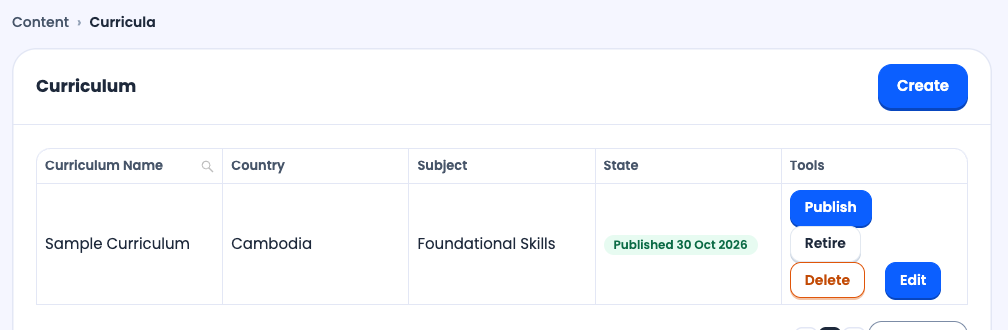
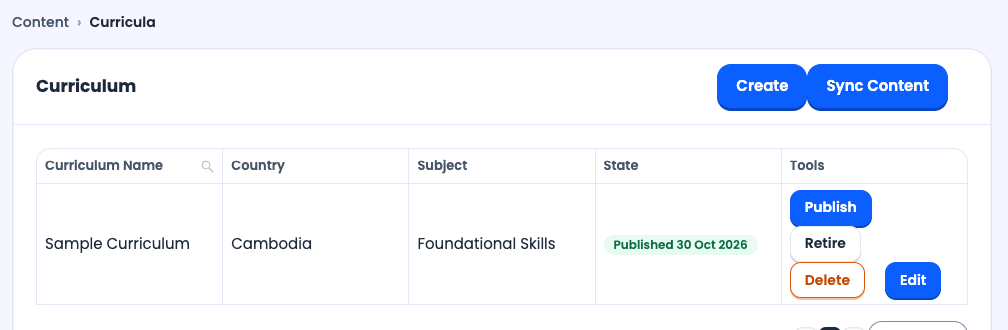
Admin guide: Admin and Organisation Admin can sync their own organisation (#7)
* Admin guide screenshots: Sync Students and Sync Content as an Organisation Admin sees them

Sync Students is now taken as the Organisation Admin on its own school's row (no
switcher needed); the schools list and the curriculum list are taken again so they
show the sync buttons.

* Admin guide: Admin and Organisation Admin can run Sync Content and Sync Students for their own organisation

Replaces the 'only the platform account, a change is in progress' text on the staff
and roles, add learners, publish and sync, signing in, organisation setup and
refusals pages, quotes the reworded failed-push message, and says to sign out and
back in to see the buttons. Written for admin d0ba85c and central 9654979.

* Signing in: the buttons appear usually within an hour (the token lifetime is a setting)

---------

Changed region(s): [[0.7073, 0.1818, 0.9841, 0.3333]]

diff --git a/site/admin-guide/staff-and-roles.md b/site/admin-guide/staff-and-roles.md
@@ -1,11 +1,11 @@
 ---
 title: Staff accounts and roles
-description: How to add a staff account to the admin, which roles you can give, what each role can and cannot do, and who can run Sync Content and Sync Students today.
+description: How to add a staff account to the admin, which roles you can give, what each role can and cannot do, and who can run Sync Content and Sync Students.
 ---
 
 # Staff accounts and roles
 
-*Written for the admin as of [`edtech-lms-ui` 183b4ac](https://github.com/edtech4good/edtech-lms-ui/commit/183b4ac), checked on 30 Oct 2026.*
+*Written for the admin as of [`edtech-lms-ui` d0ba85c](https://github.com/edtech4good/edtech-lms-ui/commit/d0ba85c) and the central server as of [`edtech-lms-api` 9654979](https://github.com/edtech4good/edtech-lms-api/commit/9654979), checked on 31 Oct 2026.*
 
 A **staff account** is a login to the admin: an email address, a password and one
 or more **roles**. The role decides what the account can see and change. This
@@ -57,7 +57,7 @@ The refusals appear under the field they belong to.
 | Enter an email address of at most 45 characters. | The email is not a valid address, or it is longer than 45 characters. The same sentence covers both. |
 | Use 8 to 50 characters with an uppercase letter, a lowercase letter and a number, and no spaces. | The password breaks the staff rule. |
 | That email is already registered. | An account already has this address. A deleted account keeps its address, so a deleted person's email cannot be used again. |
-| You can't give a role that has more access than your own. | You ticked a role you are not allowed to give. See [Which roles you can give](#which-roles-you-can-give). |
+| You can't give a role that has more access than your own. | You ticked a role you are not allowed to give. See [Which roles you can give](#which-roles-you-can-give). If your own role has just gained permissions (the two sync buttons, for instance), sign out and sign back in first: your sign-in still carries the old permissions, so a role that holds the new ones looks wider than yours. |
 | You don't have permission to do that. | Your own role is not allowed to add staff. |
 
 ## Change or delete an account
@@ -94,36 +94,35 @@ do.
   media and assessments;
 - publish and retire a curriculum;
 - add, change and delete schools, classes, subjects, tags and fees records;
-- upload and edit learners and teacher logins.
+- upload and edit learners and teacher logins;
+- run **Sync Content** and **Sync Students**, each for their own organisation
+  (see [Syncing](#syncing-who-can-do-it) below).
 
 Only **Organisation Admin** can:
 
 - add, change and delete staff accounts;
 - see the **Roles** list.
 
-Today, of the three, only **Admin** can run **Sync Content**.
+**Teacher** can do nothing beyond the first list. It cannot run either sync.
 
-**Teacher** can do nothing beyond the first list.
-
-Today nobody who works inside an organisation can run **Sync Students**, or add
-or change a country or an organisation. Notes on those.
+Nobody who works inside an organisation can add or change a country or an
+organisation. Notes on those.
 
 - **Organisations** are for **the people who run the server**. They use a
   platform account that belongs to no organisation, can act as any
   organisation, and is not something an organisation's staff can be given.
-- Today the admin shows **Sync Students** only to the people who run the
-  server; a change is in progress (see [Syncing](#syncing-who-can-do-it-today) below).
 - **Countries** can be changed only by that platform account too. An Admin is
   shown the buttons and refused when it uses them. See
   [Set up your organisation](/admin-guide/organisation-setup#countries).
 
 ### The three roles in a sentence each
 
-- **Organisation Admin** runs one organisation. It can do everything an Admin
-  can except sync content, and in addition manages staff accounts. It is the
-  role to give the person in charge of the organisation's setup.
+- **Organisation Admin** runs one organisation. It can do what an Admin can,
+  and in addition manages staff accounts. It is the role to give the person in
+  charge of the organisation's setup.
 - **Admin** builds and publishes content and manages schools, learners and
-  teachers. It cannot manage staff, and it can run **Sync Content**.
+  teachers, and runs the two syncs for its organisation. It cannot manage
+  staff.
 - **Teacher** is a read-only login. It can look at content, schools and reports
   and change nothing. A Teacher account cannot list learners, so on report pages
   that have a learner picker it sees *You don't have permission to do that.* and
@@ -145,31 +144,39 @@ The **Roles** page (**Administration › Roles**) lists the roles your account c
 give. Roles are shared by every organisation and are changed only by the
 platform account, so you cannot create, edit or delete a role.
 
-## Syncing: who can do it today
+## Syncing: who can do it
 
 Two jobs copy your work to the learner server. They are described in
 [Publish and sync](/admin-guide/publish-and-sync) and
 [Add learners and teachers](/admin-guide/learners-and-teachers#sync-students).
-Who can start them today:
+Who can start them:
 
 | Job | Where | Who sees the button |
 |---|---|---|
-| **Sync Content** | A button at the top of the **Curriculum list** | An **Admin**, and the platform account once it has chosen your organisation |
-| **Sync Students** | On a school's row in **People › Schools** | The people who run the server only |
+| **Sync Content** | A button at the top of the **Curriculum list** | An **Admin** or an **Organisation Admin**, for their own organisation; the platform account once it has chosen your organisation |
+| **Sync Students** | On a school's row in **People › Schools** | The same people |
 
-An **Organisation Admin** sees neither button. Publishing a curriculum still
-pushes it to the learner server by itself, so you rarely need **Sync Content**.
-**Sync Students** is needed after every learner upload, so an Organisation Admin
-asks the people who run the server to run it, naming the school.
+A **Teacher** sees neither button.
 
-A change that lets an Admin and an Organisation Admin sync their own
-organisation is in progress. When it arrives, the buttons will appear for those
-roles and this page and the two pages above will change with it.
+Each sync moves only the organisation of the account that runs it. **Sync
+Content** sends your organisation's published curricula. **Sync Students** sends
+the learners of the school whose row you used, and a school that belongs to
+another organisation is not found. Publishing a curriculum still pushes it to
+the learner server by itself, so you rarely need **Sync Content**. **Sync
+Students** is needed after every learner upload.
+
+**If you were already signed in when your role gained these buttons, sign out
+and sign back in.** Your sign-in carries the permissions your role had when you
+signed in, and it keeps them for up to an hour, so the buttons do not appear
+until you sign in again.
 
 ## If you cannot see something
 
 - **A menu entry is missing.** Your role is not allowed it. A role never shows
   what it cannot use. See [What a role changes](/admin-guide/signing-in#what-a-role-changes).
+- **A sync button is missing, though your role is an Admin or an Organisation
+  Admin.** Sign out and sign back in, as described under
+  [Syncing](#syncing-who-can-do-it).
 - **A platform account sees buttons greyed out.** Choose the organisation in
   the switcher first. See [The organisation switcher](/admin-guide/signing-in#the-organisation-switcher).
 - **You were signed out right after someone used your account.** One account

diff --git a/site/admin-guide/publish-and-sync.md b/site/admin-guide/publish-and-sync.md
@@ -5,7 +5,7 @@ description: How to publish, re-publish and retire a curriculum, read the change
 
 # Publish and sync
 
-*Written for the admin as of [`edtech-lms-ui` 183b4ac](https://github.com/edtech4good/edtech-lms-ui/commit/183b4ac), checked on 30 Oct 2026.*
+*Written for the admin as of [`edtech-lms-ui` d0ba85c](https://github.com/edtech4good/edtech-lms-ui/commit/d0ba85c) and the central server as of [`edtech-lms-api` 9654979](https://github.com/edtech4good/edtech-lms-api/commit/9654979), checked on 31 Oct 2026.*
 
 Editing a curriculum does not change what learners see. **Publishing** does.
 This page covers the whole job: publishing, reading the change summary,
@@ -20,7 +20,7 @@ If you have not read it yet, the idea behind this page is on the
 Go to **Content › Curricula › Curriculum list**. Each curriculum has a row, and
 the **State** column says where it stands.
 
-![The Curriculum list with one curriculum, its State shown as Published with a date, and Publish, Retire, Delete and Edit buttons.](/admin-guide/curriculum-list.png)
+![The Curriculum list with Create and Sync Content buttons at the top, and one curriculum with its State shown as Published with a date and Publish, Retire, Delete and Edit buttons.](/admin-guide/curriculum-list.png)
 
 | State | What it means for learners |
 |---|---|
@@ -32,7 +32,8 @@ the **State** column says where it stands.
 | **—** | The state could not be read. Reload the page. |
 
 The buttons on a row are **Publish**, **Retire**, **Delete** and **Edit**.
-**Create**, at the top, starts a new curriculum. You need to be allowed to
+**Create**, at the top, starts a new curriculum, and **Sync Content**, next to
+it, is described [below](#sync-content). You need to be allowed to
 publish to see Publish and Retire: Organisation Admin, Admin and Super Admin
 accounts are. A platform account must first
 [choose an organisation](/admin-guide/signing-in#the-organisation-switcher).
@@ -88,17 +89,20 @@ The message tells you about the push:
 |---|---|
 | **Published**: *Published. The learner server has the organisation's published curricula.* | Recorded and pushed. Online learners can have it now. |
 | **Published**: *Published. No learner server is set up here, so nothing was pushed.* | Recorded, but this deployment has no learner server to push to. |
-| **Published “Name”, but the push failed**: *Published. The push to the learner server failed; a platform admin can re-push from Sync Content.* and a reason | Recorded, **not** pushed. This message stays on screen until you close it. See [Sync Content](#sync-content). |
+| **Published “Name”, but the push failed**: *Published. The push to the learner server failed; an Admin or Organisation Admin can send it again with Sync Content.* and a reason | Recorded, **not** pushed. This message stays on screen until you close it. See [Sync Content](#sync-content). |
 
 A failed push never undoes the publish. Your version is saved, and the push can
-be repeated.
+be repeated. After a Retire or a Delete the same sentence starts *Retired.* or
+*Deleted.* instead of *Published.*, and it means the same: the change is saved
+and not yet sent.
 
 ### Re-publish
 
 When nothing has changed, **Publish** reads **Re-publish**. Re-publishing records
-a new copy of the same version and pushes again. Use it after a failed push if
-your account cannot use Sync Content, or when learners are missing a curriculum
-you know is published.
+a new copy of the same version and pushes again. Use it after a failed push, or
+when learners are missing a curriculum you know is published. If you only want
+to send again what is already published, without recording a new copy, use
+[Sync Content](#sync-content).
 
 ### If two people publish at once
 
@@ -151,18 +155,22 @@ instead: publishing it again brings it back.
 Publishing pushes by itself. **Sync Content** is the manual push, for when an
 automatic one has failed.
 
-It is a button at the top of the Curriculum list. You see it only if your
-account is an **Admin** or a platform account. An Organisation Admin does not
-see it. If you cannot, ask the person who can.
+It is a button at the top of the Curriculum list. You see it if your account is
+an **Admin** or an **Organisation Admin**, or a platform account that has chosen
+an organisation. A **Teacher** does not see it. If you are an Admin or an
+Organisation Admin and the button is missing, sign out and sign back in: if you
+were already signed in when your role gained the button, your sign-in keeps its
+old permissions for up to an hour. Otherwise ask an Admin or Organisation Admin
+of your organisation.
 
 1. Choose **Sync Content** and confirm **Sure to sync?** with **OK**.
 2. You see **Success** and *Content synced to cloud sucessfully* (the word
    "successfully" is misspelled on screen).
 
-Sync Content works **per organisation**: it pushes the published curricula of one
-organisation. A platform account has to be acting as an organisation first, or
-you see **Choose an organisation.** Use the switcher at the top of the menu,
-then try again.
+Sync Content works **per organisation**: it pushes the published curricula of
+your own organisation, and nothing of any other. A platform account has to be
+acting as an organisation first, or you see **Choose an organisation.** Use the
+switcher at the top of the menu, then try again.
 
 If the learner server cannot be reached you see **The service is temporarily
 unavailable. Try again in a few minutes.** with a reference code. Try again

diff --git a/site/admin-guide/when-something-is-refused.md b/site/admin-guide/when-something-is-refused.md
@@ -5,7 +5,7 @@ description: The messages admin staff meet when an upload, sign-in, publish or s
 
 # When something is refused
 
-*Written for the admin as of [`edtech-lms-ui` 183b4ac](https://github.com/edtech4good/edtech-lms-ui/commit/183b4ac), checked on 30 Oct 2026.*
+*Written for the admin as of [`edtech-lms-ui` d0ba85c](https://github.com/edtech4good/edtech-lms-ui/commit/d0ba85c) and the central server as of [`edtech-lms-api` 9654979](https://github.com/edtech4good/edtech-lms-api/commit/9654979), checked on 31 Oct 2026.*
 
 Most refusals appear as a red **Error** notice in the top right corner of the
 page. This page lists the ones you are most likely to meet, quoted as they
@@ -117,9 +117,9 @@ chosen an organisation.
 - `Someone published this curriculum a moment ago. Reload to see their changes.`
   - **Cause:** Someone else published the same curriculum while you had the panel open. Nothing was lost.
   - **What to do:** Choose **Reload**, read the summary, publish again if still needed.
-- `Published “Name”, but the push failed` and `Published. The push to the learner server failed; a platform admin can re-push from Sync Content.` followed by a reason
-  - **Cause:** The version is saved, but sending it to the learner server failed. This notice stays on screen until you close it.
-  - **What to do:** Open **Publish** on the row and choose **Re-publish**, or ask an Admin or platform account to run **Sync Content**.
+- `Published “Name”, but the push failed` and `Published. The push to the learner server failed; an Admin or Organisation Admin can send it again with Sync Content.` followed by a reason
+  - **Cause:** The version is saved, but sending it to the learner server failed. This notice stays on screen until you close it. After a Retire or a Delete the sentence starts *Retired.* or *Deleted.*
+  - **What to do:** Choose **Sync Content** at the top of the Curriculum list, or open **Publish** on the row and choose **Re-publish**. If you do not see **Sync Content**, ask an Admin or Organisation Admin of your organisation.
 - `Can't be published` (the state), with `This curriculum can't be published yet. curriculums: 1 row names a subject that has been deleted.`
   - **Cause:** The curriculum refers to something that is gone, here a deleted subject.
   - **What to do:** Fix the thing named. The message ends *Nothing was published.*
@@ -135,6 +135,9 @@ chosen an organisation.
 - `The service is temporarily unavailable. Try again in a few minutes. Reference: E-…`
   - **Cause:** **Sync Content** or **Sync Students** could not reach the learner server.
   - **What to do:** Wait and try again. If it repeats, give the reference code to whoever runs the deployment.
+- A sync button you expect is not on the screen (no message)
+  - **Cause:** Only an Admin, an Organisation Admin and a platform account that has chosen an organisation see **Sync Content** and **Sync Students**. If your role is one of those and you were signed in before it gained the buttons, your sign-in still carries the old permissions, for up to an hour.
+  - **What to do:** Sign out and sign back in. See [Staff accounts and roles](/admin-guide/staff-and-roles#syncing-who-can-do-it).
 - `You don't have permission to do that.`
   - **Cause:** Your role is not allowed the action. Buttons you are not allowed to use are normally hidden, so you meet this only when an action reaches the server some other way.
   - **What to do:** Ask an account with the right role. See [What a role changes](/admin-guide/signing-in#what-a-role-changes).

diff --git a/site/admin-guide/signing-in.md b/site/admin-guide/signing-in.md
@@ -5,7 +5,7 @@ description: Signing in to the admin with your email, the staff password rule, w
 
 # Signing in and finding your way
 
-*Written for the admin as of [`edtech-lms-ui` 183b4ac](https://github.com/edtech4good/edtech-lms-ui/commit/183b4ac), checked on 30 Oct 2026.*
+*Written for the admin as of [`edtech-lms-ui` d0ba85c](https://github.com/edtech4good/edtech-lms-ui/commit/d0ba85c) and the central server as of [`edtech-lms-api` 9654979](https://github.com/edtech4good/edtech-lms-api/commit/9654979), checked on 31 Oct 2026.*
 
 ## Sign in
 
@@ -134,9 +134,9 @@ nothing to switch. The tile just names it.
 The platform's own accounts are different. Their tile at the top is a **switcher**:
 it opens a list with **All organisations** (the *platform view*, which reads
 across everything) and each organisation by name. Choosing one makes the
-account act as that organisation. Several steps in this guide, such as publishing
-and Sync Content, only work for a platform account once it has chosen an
-organisation. If you are doing this for an organisation, choose it
+account act as that organisation. Several steps in this guide, such as publishing,
+Sync Content and Sync Students, only work for a platform account once it has
+chosen an organisation. If you are doing this for an organisation, choose it
 first.
 
 ![The organisation switcher open, listing All organisations, Example Company and Example Network.](/admin-guide/org-switcher.png)
@@ -148,20 +148,25 @@ on a page. A button you are not allowed to use is simply not shown, and if
 something reaches the server that your role does not allow, the answer is
 "You don't have permission to do that."
 
+Your sign-in carries the permissions your role had when you signed in. If your
+role gains a button while you are signed in, it appears when you sign out and
+sign back in, or usually within an hour.
+
 - **Organisation Admin** is the person who runs one organisation. It sees
   everything in the menu for that organisation, including **Staff accounts** and
   **Roles**, and can publish and retire curricula and upload learners and
-  teachers. It does not see **Sync Content** or the **Sync Students** button,
-  and can only view Countries.
+  teachers. It also sees **Sync Content** and the **Sync Students** button,
+  which work for its own organisation only, and it can only view Countries.
 - **Admin** is a trusted member of an organisation's staff. It has the same
   content and people menus, but no **Staff accounts** or **Roles**. It sees
-  **Sync Content**. It is shown the buttons for Countries, but changing a country
+  **Sync Content** and the **Sync Students** button, for its own organisation.
+  It is shown the buttons for Countries, but changing a country
   is for the platform account and the server refuses it. See
   [Set up your organisation](/admin-guide/organisation-setup#countries) and
   [Staff accounts and roles](/admin-guide/staff-and-roles).
 - **Teacher** is a read-only staff login: it can look at curricula, schools and
-  reports and change none of them. Teachers themselves use the learning app, not
-  this admin.
+  reports and change none of them. It sees neither sync button. Teachers
+  themselves use the learning app, not this admin.
 - **Super Admin** is for the people who run the deployment. It is a platform
   account with no organisation of its own. It sees the **Platform** group and
   the switcher, and can act as any organisation.

diff --git a/site/admin-guide/organisation-setup.md b/site/admin-guide/organisation-setup.md
@@ -5,7 +5,7 @@ description: How to create and edit the schools, classes, subjects and tags your
 
 # Set up your organisation
 
-*Written for the admin as of [`edtech-lms-ui` 183b4ac](https://github.com/edtech4good/edtech-lms-ui/commit/183b4ac), checked on 30 Oct 2026.*
+*Written for the admin as of [`edtech-lms-ui` d0ba85c](https://github.com/edtech4good/edtech-lms-ui/commit/d0ba85c) and the central server as of [`edtech-lms-api` 9654979](https://github.com/edtech4good/edtech-lms-api/commit/9654979), checked on 31 Oct 2026.*
 
 Before you add a single learner, a handful of records have to exist: the
 **schools**, the **classes** in them, the **countries** and **curricula** those
@@ -44,7 +44,7 @@ So the usual order is:
 
 A school is where learners and teachers belong. Go to **People › Schools**.
 
-![The Schools list, with each school's country and curricula and the buttons Delete, Download Students, Edit and Fees Collection.](/admin-guide/schools-list.png)
+![The Schools list, with each school's country and curricula and the buttons Delete, Download Students, Sync Students, Edit and Fees Collection.](/admin-guide/schools-list.png)
 
 The columns are **School Name**, **Country**, **Curriculum** and **Tools**. The
 magnifying glass beside *School Name* searches by name, and the funnel beside
@@ -57,7 +57,8 @@ magnifying glass beside *School Name* searches by name, and the funnel beside
   hand, **Expected** and **Actual**. The admin does not collect any money. It
   only keeps the figures you type in, and the
   [Fees collection](/admin-guide/reports#fees-collection) report draws on them.
-- **Sync Students** is on this row too, for the platform's own accounts. See
+- **Sync Students** is on this row too, for an Admin or an Organisation Admin
+  (and for a platform account acting as your organisation). See
   [Add learners and teachers](/admin-guide/learners-and-teachers#sync-students).
 
 ### Add a school

diff --git a/site/admin-guide/learners-and-teachers.md b/site/admin-guide/learners-and-teachers.md
@@ -5,7 +5,7 @@ description: How to add learners and teachers from a spreadsheet, every column o
 
 # Add learners and teachers
 
-*Written for the admin as of [`edtech-lms-ui` 183b4ac](https://github.com/edtech4good/edtech-lms-ui/commit/183b4ac), checked on 30 Oct 2026.*
+*Written for the admin as of [`edtech-lms-ui` d0ba85c](https://github.com/edtech4good/edtech-lms-ui/commit/d0ba85c) and the central server as of [`edtech-lms-api` 9654979](https://github.com/edtech4good/edtech-lms-api/commit/9654979), checked on 31 Oct 2026.*
 
 You add people to the admin by uploading a **CSV file**, one row per person. A
 CSV is a plain spreadsheet export: in Excel or Google Sheets choose *Save as*
@@ -198,12 +198,12 @@ across.
 
 Things to know:
 
-- **The button is not shown to every account.** In the version this guide was
-  checked against, **Sync Students appears only for the platform's own
-  accounts**. An Organisation Admin account does not see it, and the server
-  refuses that account's request if it is sent anyway. An Admin account does not
-  see it either. If you do not see it, ask whoever runs your deployment to run
-  Sync Students for your school, and tell them which school.
+- **Who sees the button.** An **Admin** or an **Organisation Admin** sees
+  **Sync Students** on the rows of their own organisation's schools, and
+  can run it for those schools only. A **Teacher** does not see it. If you were
+  already signed in when your role gained the button, **sign out and sign back
+  in**: your sign-in keeps the permissions it started with for up to an hour.
+  See [Staff accounts and roles](/admin-guide/staff-and-roles#syncing-who-can-do-it).
 - **A platform account should choose your organisation first** with the
   switcher, so that the Schools list shows only your schools.
 - **It is per school.** Sync each school you added learners to.
